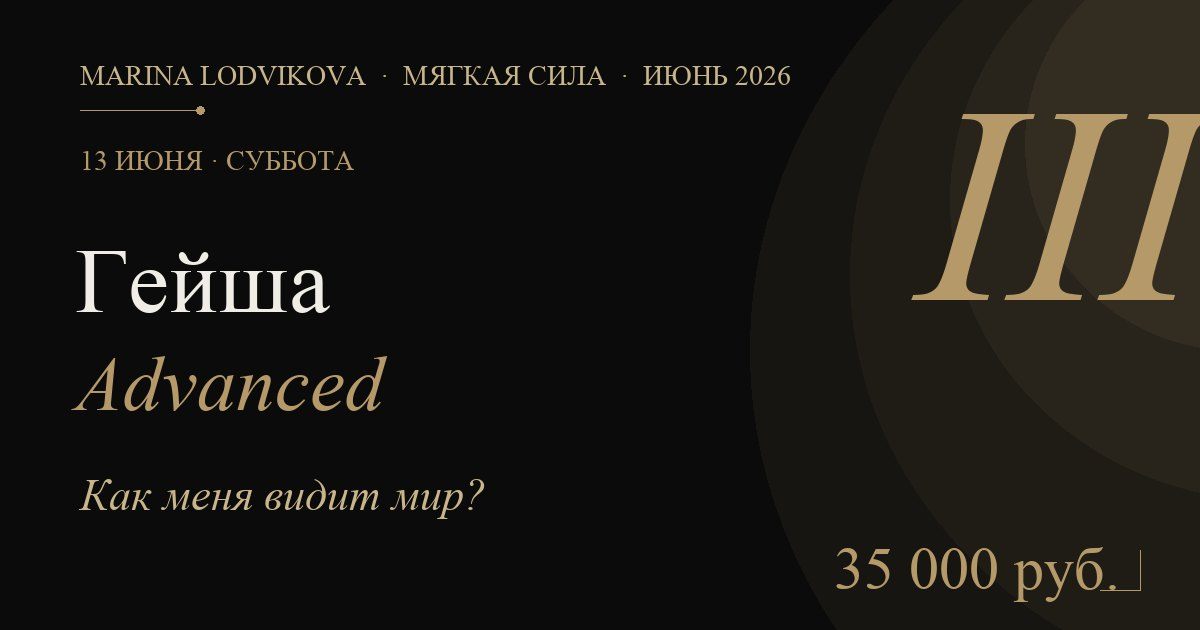
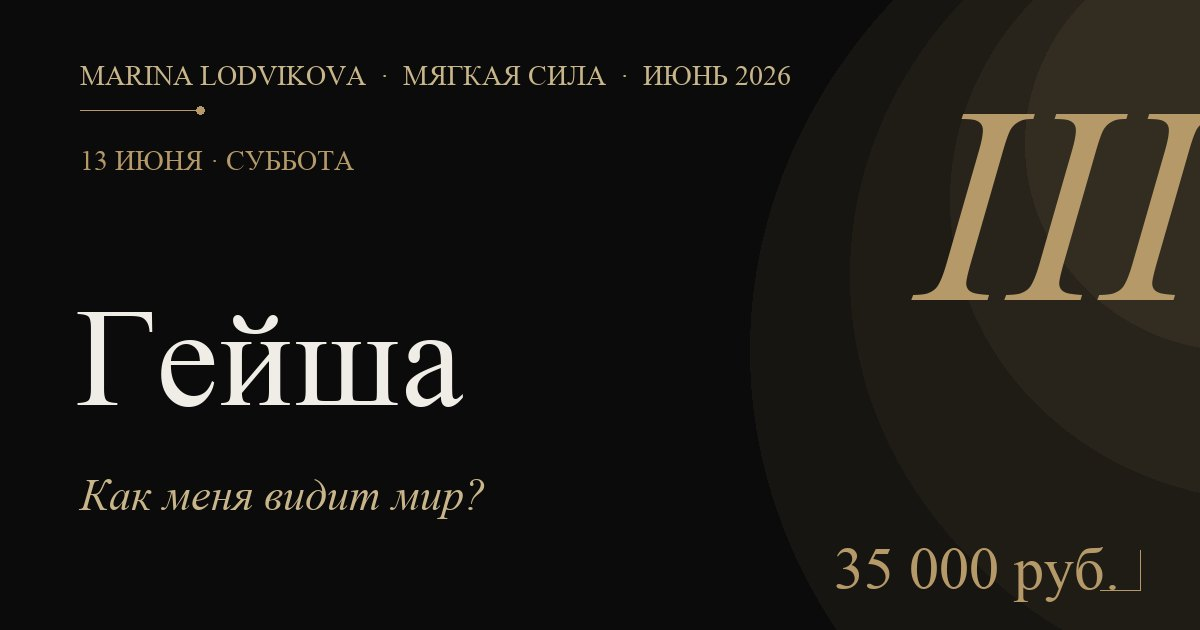
Гейша Advanced → Гейша · только для женщин · стампы дат поправлены
- Слово «Advanced» убрано везде: заголовок h2, cal-name, alt, aria-label,
  TG-шаблон, OG title/description, og-картинка перегенерирована
- Формат: «Закрытый формат для женщин · в игре появляется мужская фигура — Император»
  → «Только для женщин»
- Удалён абзац описания про Императора (он был дублированием формата)
- Поправлены 5 stamps на фото event-visual:
  · 6.06, 13.06, 27.06 → СУББОТА
  · 11.06, 18.06 → ЧЕТВЕРГ

Changed region(s): [[0.0617, 0.3921, 0.4008, 0.6635]]

diff --git a/index.html b/index.html
@@ -4,9 +4,9 @@
   <meta charset="utf-8" />
   <meta name="viewport" content="width=device-width, initial-scale=1" />
   <title>Марина Лодвикова — Календарь июня 2026</title>
-  <meta name="description" content="Мягкая сила — авторские мероприятия Марины Лодвиковой в июне 2026: женские архетипы, телесные практики, Гейша Advanced, бизнес-ужин, мастер-группа." />
+  <meta name="description" content="Мягкая сила — авторские мероприятия Марины Лодвиковой в июне 2026: женские архетипы, телесные практики, Гейша, бизнес-ужин, мастер-группа." />
   <meta property="og:title" content="Марина Лодвикова — Мягкая сила. Июнь 2026" />
-  <meta property="og:description" content="Календарь авторских мероприятий: 6 / 11 / 13 / 18 / 27 июня. Архетипы, телесная практика, Гейша Advanced, бизнес-ужин, мастер-группа." />
+  <meta property="og:description" content="Календарь авторских мероприятий: 6 / 11 / 13 / 18 / 27 июня. Архетипы, телесная практика, Гейша, бизнес-ужин, мастер-группа." />
   <meta property="og:type" content="website" />
   <meta property="og:url" content="https://marina-site-beryl.vercel.app/" />
   <meta property="og:image" content="https://marina-site-beryl.vercel.app/assets/og-image.jpg" />
@@ -193,8 +193,8 @@
           <div class="cal-go" role="cell" aria-hidden="true">→</div>
         </a>
 
-        <!-- 3 — Гейша Advanced -->
-        <a class="cal-row cal-row--limited" href="#event-3" role="row" aria-label="13 июня — Гейша Advanced">
+        <!-- 3 — Гейша -->
+        <a class="cal-row cal-row--limited" href="#event-3" role="row" aria-label="13 июня — Гейша">
           <div class="cal-date" role="cell">
             <span class="cal-day">13</span>
             <span class="cal-month">июн</span>
@@ -203,7 +203,7 @@
           <div class="cal-num" role="cell"><span>III</span></div>
           <div class="cal-main" role="cell">
             <div class="cal-question">Как меня видит мир?</div>
-            <h3 class="cal-name">Гейша Advanced</h3>
+            <h3 class="cal-name">Гейша</h3>
             <dl class="cal-meta">
               <div class="spec-row"><dt>Время</dt><dd>11:00&nbsp;— 18:00</dd></div>
               <div class="spec-row"><dt>Место</dt><dd>Адрес после&nbsp;записи</dd></div>
@@ -315,7 +315,7 @@
           <div class="numeral">I</div>
           <div class="stamp">
             <div class="day">06</div>
-            <div class="month">Июнь · Пятница</div>
+            <div class="month">Июнь · Суббота</div>
           </div>
         </div>
 
@@ -435,7 +435,7 @@
           <div class="numeral">II</div>
           <div class="stamp">
             <div class="day">11</div>
-            <div class="month">Июнь · Среда</div>
+            <div class="month">Июнь · Четверг</div>
           </div>
         </div>
 
@@ -449,30 +449,28 @@
       <div class="event reveal">
 
         <div class="event-visual">
-          <img src="assets/event-3-geisha.jpg" alt="Гейша Advanced" loading="lazy" />
+          <img src="assets/event-3-geisha.jpg" alt="Гейша" loading="lazy" />
           <div class="frame"></div>
           <div class="numeral">III</div>
           <div class="stamp">
             <div class="day">13</div>
-            <div class="month">Июнь · Пятница</div>
+            <div class="month">Июнь · Суббота</div>
           </div>
         </div>
 
         <div class="event-meta-col">
           <span class="num"><span class="num-label">Мероприятие</span> <span class="num-roman">III</span> <span class="num-sep">·</span> из&nbsp;пяти</span>
-          <h2>Гейша<br/><span class="accent">Advanced</span></h2>
+          <h2>Гейша</h2>
           <p class="question">Как меня видит мир? Какую энергию я&nbsp;транслирую?<br/>Очень часто мы&nbsp;видим себя совсем иначе, чем нас&nbsp;видит мир.</p>
 
           <dl class="specs">
             <div class="spec-row"><dt>Дата</dt><dd>13 июня, суббота</dd></div>
             <div class="spec-row"><dt>Время</dt><dd>11:00&nbsp;— 18:00</dd></div>
             <div class="spec-row"><dt>Место</dt><dd>Москва · адрес сообщается после&nbsp;записи</dd></div>
-            <div class="spec-row"><dt>Формат</dt><dd>Закрытый формат для&nbsp;женщин · в&nbsp;игре появляется мужская фигура&nbsp;— Император</dd></div>
+            <div class="spec-row"><dt>Формат</dt><dd>Только для&nbsp;женщин</dd></div>
             <div class="spec-row"><dt>Стоимость</dt><dd><span class="price">35&nbsp;000&nbsp;₽</span></dd></div>
             <div class="spec-row"><dt>Запись</dt><dd><span class="badge badge--open">Идёт запись</span></dd></div>
           </dl>
-
-          <p>Обычно игра проходит только среди женщин. В&nbsp;формате Advanced появляется мужчина в&nbsp;роли Императора — сильного, реализованного, проявленного. Это даёт совершенно новый опыт и&nbsp;новую обратную связь.</p>
 
           <details class="event-details">
             <summary>Что будет</summary>
@@ -504,7 +502,7 @@
 
           <div class="cta-row">
             <a class="cta tg-cta" href="https://t.me/Diamondmari" target="_blank" rel="noopener"
-               data-tg="Здравствуйте, Марина!&#10;&#10;Пишу с сайта — хочу записаться на «Гейшу Advanced», 13 июня (11:00–18:00, 35 000 ₽)." data-goal="cta_telegram_geisha">Записаться <span class="arrow">→</span></a>
+               data-tg="Здравствуйте, Марина!&#10;&#10;Пишу с сайта — хочу записаться на «Гейшу», 13 июня (11:00–18:00, 35 000 ₽)." data-goal="cta_telegram_geisha">Записаться <span class="arrow">→</span></a>
           </div>
         </div>
 
@@ -573,7 +571,7 @@
           <div class="numeral">IV</div>
           <div class="stamp">
             <div class="day">18</div>
-            <div class="month">Июнь · Среда</div>
+            <div class="month">Июнь · Четверг</div>
           </div>
         </div>
 
@@ -592,7 +590,7 @@
           <div class="numeral">V</div>
           <div class="stamp">
             <div class="day">27</div>
-            <div class="month">Июнь · Пятница</div>
+            <div class="month">Июнь · Суббота</div>
           </div>
         </div>
 

diff --git a/geisha/index.html b/geisha/index.html
@@ -3,11 +3,11 @@
 <head>
   <meta charset="utf-8" />
   <meta name="viewport" content="width=device-width, initial-scale=1" />
-  <title>Гейша Advanced — 13 июня · Марина Лодвикова</title>
+  <title>Гейша — 13 июня · Марина Лодвикова</title>
   <meta name="description" content="Как меня видит мир? Закрытый формат для женщин. В игре появляется мужская фигура — Император. 13 июня, 11:00–18:00. 35 000 ₽." />
 
   <!-- Open Graph: уникальное превью события для шеринга в WhatsApp/Email/Telegram-вне-кеша -->
-  <meta property="og:title" content="Гейша Advanced — 13 июня" />
+  <meta property="og:title" content="Гейша — 13 июня" />
   <meta property="og:description" content="Как меня видит мир? Закрытый формат для женщин. В игре появляется мужская фигура — Император. 13 июня, 11:00–18:00. 35 000 ₽." />
   <meta property="og:type" content="website" />
   <meta property="og:url" content="https://marina-site-beryl.vercel.app/geisha/" />
@@ -16,7 +16,7 @@
   <meta property="og:image:height" content="630" />
   <meta property="og:locale" content="ru_RU" />
   <meta name="twitter:card" content="summary_large_image" />
-  <meta name="twitter:title" content="Гейша Advanced — 13 июня" />
+  <meta name="twitter:title" content="Гейша — 13 июня" />
   <meta name="twitter:description" content="Как меня видит мир? Закрытый формат для женщин. В игре появляется мужская фигура — Император. 13 июня, 11:00–18:00. 35 000 ₽." />
   <meta name="twitter:image" content="https://marina-site-beryl.vercel.app/assets/og/event-3.jpg" />
 
